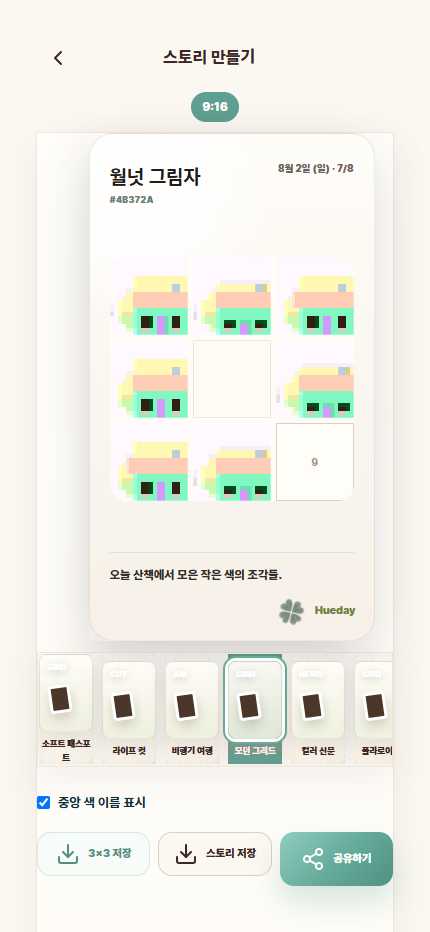
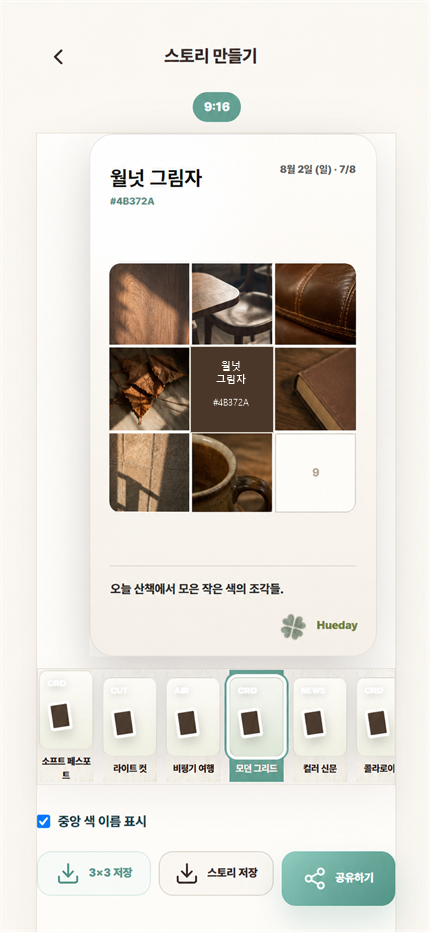
docs: README Story에 실사형 컬러워크 예시 반영

diff --git a/docs/ai-memory/sessions/2026-07-31-1207-readme-story-realistic-prototype.md b/docs/ai-memory/sessions/2026-07-31-1207-readme-story-realistic-prototype.md
@@ -1,0 +1,56 @@
+# Session record - 2026-07-31-1207 - readme-story-realistic-prototype
+
+## Goal
+
+readme-story-realistic-prototype
+
+## Scope and success conditions
+
+README Story 화면의 픽셀 fixture를 실사형 컬러워크 예시로 교체하고 중앙 mission color를 보존
+
+## Graphify findings
+
+StoryStudio는 기존 Post 이미지와 중앙 mission tile을 함께 렌더하며 README 자산은 앱 저장 계약과 분리된 문서 이미지임
+
+## Decision
+
+저작권과 개인정보 위험이 있는 인터넷/사용자 사진 대신 생성된 실사형 컬러워크 예시를 사용하고 시각 프로토타입임을 명시
+
+## Changes
+
+README Story 430x932 이미지를 개인정보 없는 실사형 예시 사진 프로토타입으로 교체; 중앙 월넛 그림자 #4B372A 타일 복원; 합성 예시 및 QA 전 상태 명시
+
+## Changed files at finish
+
+~~~text
+ M README.md
+ M docs/ai-memory/00-current-state.md
+ M docs/assets/readme/05-story-studio.png
+?? ".tmp /"
+?? diff.patch
+?? output/
+~~~
+
+## Verification
+
+이미지 430x932 확인; 중앙 pixel FF4B372A 확인; README 링크 존재; 프로토타입 고지 존재; 비밀정보 패턴 0; git diff --check 통과
+
+## Quantitative evidence
+
+Story 자산 1장 430x932; 중앙 기준 pixel #4B372A; 누락 링크 0; 비밀정보 패턴 0
+
+## Failed or deferred approaches
+
+실계정 최신 Story 재캡처는 현재 브라우저의 Supabase 요청이 Failed to fetch로 차단되어 사용하지 않음; 오래된 UI 화면 재사용도 최신 UI 정합성 때문에 제외
+
+## Documentation impact
+
+README.md, docs/ai-memory/00-current-state.md, 세션 노트
+
+## Career evidence impact
+
+영향 없음: 제품 기능 변경이 아닌 포트폴리오 시각 자산 정렬
+
+## Next tasks
+
+M6.5 실제 QA fixture에 프로젝트 소유 실촬영 사진을 넣은 뒤 README Story를 실제 실행 캡처로 교체

diff --git a/docs/ai-memory/00-current-state.md b/docs/ai-memory/00-current-state.md
@@ -1,6 +1,6 @@
 # 현재 상태
 
-> **2026-07-31 포트폴리오 README 화면 임시 갱신:** README의 Home·색 재추천·Deck·Hueprint·Story·Profile 6장을 모두 `feature/pre-m7-visual-product-polish` 최신 코드의 430×932 로컬 실행 화면으로 교체했다. 이 화면은 `프로토타입 UI · 최종 QA 전`으로 명시했으며 `main` 병합·production 배포·Android 실기기 QA 완료 증거로 사용하지 않는다. 캡처 원본은 `output/playwright/readme-latest-feature/`에만 남기고 README용 선별본만 `docs/assets/readme/`에 포함한다.
+> **2026-07-31 포트폴리오 README 화면 임시 갱신:** README의 Home·색 재추천·Deck·Hueprint·Profile은 `feature/pre-m7-visual-product-polish` 최신 코드의 430×932 로컬 실행 화면으로 교체했다. Story는 같은 최신 UI 캡처의 픽셀 fixture만 개인정보 없는 실사형 컬러워크 예시로 교체한 시각 프로토타입이며 실제 사용자 사진·실행 QA 증거가 아니다. README에 `프로토타입 UI · 최종 QA 전`을 명시했고 `main` 병합·production 배포·Android 실기기 QA 완료 증거로 사용하지 않는다.
 
 > **2026-07-29 M7 전 마감 순서 확정:** M6는 `main`에 통합됐다. Store screenshot과 전체 M7 QA 전에 M6.5 실제 화면·제품 카피 마감을 한 번 수행한다. 실제 430×932/360px/200% 화면에서 승인된 Modern Warm Archive만 좁게 교정하고, `다른 색` 최대 6회(문맥 3+전체 무작위 3, 당일 노출 색 전체 제외), Story 중앙 이름·HEX 표시 선택, 자연스러운 한국어/영어 mission 이름을 구현한다. 그 뒤 M7에서 Android update·보안·Play 출시 gate를 닫는다.
 
